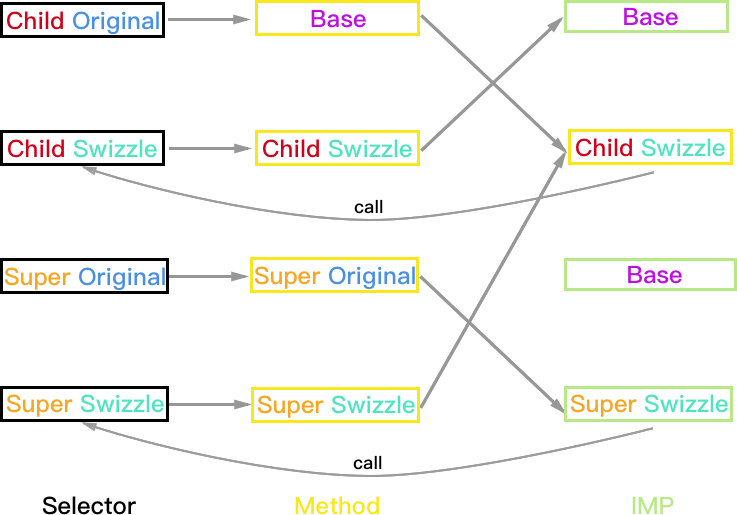
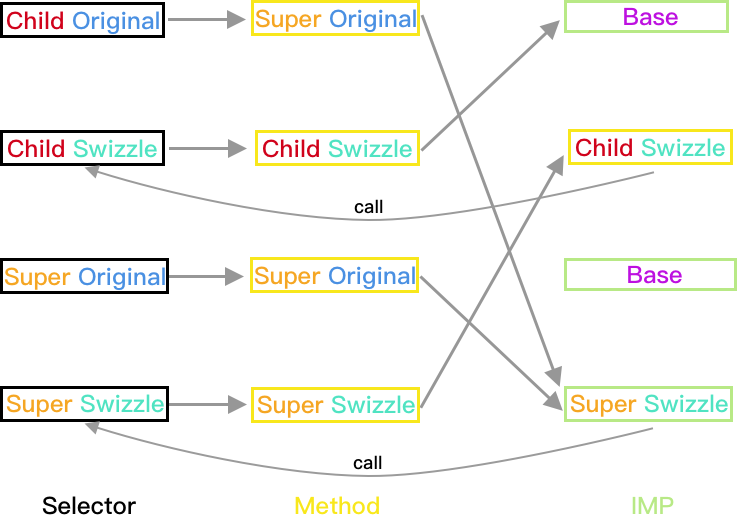
fix method swizzling

diff --git a/source/_posts/2017-04-17-Objective-C-Method-Swizzling.md b/source/_posts/2017-04-17-Objective-C-Method-Swizzling.md
@@ -133,243 +133,227 @@ BOOL class_swizzleMethodAndStore(Class class, SEL original, IMP replacement, IMP
 
 这个顺序本身就不被大众认可却又不得不广泛被使用，因为很多想 Hook 系统 API 只能从 Category 下手。当子类同样的方法也被 Hook 后，奇怪的事情便发生了。
 
-### Super 未实现方法,Child 未实现方法
+### Super 未实现方法, Child 未实现方法
 
-#### Super:Plan A,Child:Plan A
+#### Super:PlanA, Child:PlanA
 
 ![CS_SuperAChildA](http://yulingtianxia.com/resources/MethodSwizzling/CS_SuperAChildA.png)
 
-
 方法执行结果：
 
-1. Child 对象：Child->Base (Super 被忽略)
+1. Child 对象：Child_Swizzle->Base (Super_Swizzle 被忽略)
 2. Super 和 Base 对象均正常
 
-#### Super:Plan B,Child:Plan A
+#### Super:PlanB, Child:PlanA
 
 ![CS_SuperBChildA](http://yulingtianxia.com/resources/MethodSwizzling/CS_SuperBChildA.png)
 
-
 方法执行结果：
 
-1. Child 对象：Child->Base (Super 被忽略)
-2. Super 对象正常
-3. Base 对象产生 `unrecognized selector` 异常，此情况亦等同于：在子类类别中 Hook 了子类未实现而父类实现了的方法。（Super 是 Base 的子类）
+1. Child 对象：Child_Swizzle->Base (Super_Swizzle 被忽略)
+2. Super 对象正常：Super_Swizzle->Base
+3. Base 对象：产生 `unrecognized selector` 异常，此情况亦等同于：在子类类别中 Hook 了子类未实现而父类实现了的方法。（Super 是 Base 的子类）
 
-#### Super:Plan A,Child Plan B
+#### Super:PlanA, Child:PlanB
 
 ![CS_SuperAChildB](http://yulingtianxia.com/resources/MethodSwizzling/CS_SuperAChildB.png)
 
 
 方法执行结果：
 
-1. Child 对象：Child->Base (Super 被忽略)
-2. Super 对象：如果 Super_Swizzle 与 Child_Swizzle 的 `selector` 不同，则会产生 `unrecognized selector` 异常；如果两个 `selector` 相同则会一直调用 Child_Swizzle 进入死循环
-3. Base 对象产生 `unrecognized selector` 异常，此情况亦间接等同于：在子类类别中 Hook 了子类未实现而父类实现了的方法。（Super 是 Base 的子类）
+1. Child 对象：如果 Super_Swizzle 与 Child_Swizzle 的 `selector` 不同，结果是 Super_Swizzle->Child_Swizzle->Base (顺序错误)；如果两个 `selector` 相同，则导致 Super_Swizzle 调用的是 Child_Swizzle 方法，结果是 Super_Swizzle->Base (Child_Swizzle 被忽略)。
+2. Super 对象：如果 Super_Swizzle 与 Child_Swizzle 的 `selector` 不同，则会产生 `unrecognized selector` 异常；如果两个 `selector` 相同则会一直调用 Child_Swizzle 进入死循环。
+3. Base 对象产生 `unrecognized selector` 异常，此情况亦间接等同于：在子类类别中 Hook 了子类未实现而父类实现了的方法。
 
-#### Super:Plan B,Child Plan B
+#### Super:PlanB, Child: PlanB
 
 ![CS_SuperBChildB](http://yulingtianxia.com/resources/MethodSwizzling/CS_SuperBChildB.png)
 
-
 方法执行结果：
 
-1. Child 对象：Super->Child->Base
+1. Child 对象：如果 Super_Swizzle 与 Child_Swizzle 的 `selector` 不同，结果是 Super_Swizzle->Child_Swizzle->Base (顺序错误)；如果两个 `selector` 相同，则导致 Super_Swizzle 调用的是 Child_Swizzle 方法，结果是 Super_Swizzle->Base (Child_Swizzle 被忽略)。
 2. Super 对象：如果 Super_Swizzle 与 Child_Swizzle 的 `selector` 不同，则会产生 `unrecognized selector` 异常；如果两个 `selector` 相同则会一直调用 Child_Swizzle 进入死循环
-3. Base 对象产生 `unrecognized selector` 异常
+3. Base 对象产生 `unrecognized selector` 异常，此情况亦间接等同于：在子类类别中 Hook 了子类未实现而父类实现了的方法。
 
-### Super 实现方法,Child 未实现方法
+### Super 实现方法, Child 未实现方法
 
 由于 Super 类被 Hook 的方法已经被实现，所以只需区分 Child 的 Hook 方案。
 
-#### Child:Plan A
+#### Child:PlanA
 
 ![CS_ChildA](http://yulingtianxia.com/resources/MethodSwizzling/CS_ChildA.png)
 
-
 方法执行结果：
 
-1. Child 对象：Child->Base (Super 被忽略)
+1. Child 对象：Child_Swizzle->Super->Base (Super_Swizzle 被忽略)
 2. Super 和 Base 对象均正常
 
-#### Child:Plan B
+#### Child:PlanB
 
 ![CS_ChildB](http://yulingtianxia.com/resources/MethodSwizzling/CS_ChildB.png)
 
-
 方法执行结果：
 
-1. Child 对象：Super->Child->Base
+1. Child 对象：如果 Super_Swizzle 与 Child_Swizzle 的 `selector` 不同，则结果为 Super_Swizzle->Child_Swizzle->Super->Base (顺序错误)；如果两个 `selector` 相同则结果为 Super_Swizzle->Super->Base (Child_Swizzle 被忽略)
 2. Super 对象：如果 Super_Swizzle 与 Child_Swizzle 的 `selector` 不同，则会产生 `unrecognized selector` 异常；如果两个 `selector` 相同则会一直调用 Child_Swizzle 进入死循环
 3. Base 对象正常
 
-### Super 未实现方法,Child 实现方法
+### Super 未实现方法, Child 实现方法
 
 由于 Child 类被 Hook 的方法已经被实现，所以只需区分 Super 的 Hook 方案。
 
-#### Super:Plan A
+#### Super:PlanA
 
 ![CS_SuperA](http://yulingtianxia.com/resources/MethodSwizzling/CS_SuperA.png)
 
+方法执行结果：
 
-方法执行结果（一切正常）：
-
-1. Child 对象正常：Child->Super->Base
+1. Child 对象：如果 Super_Swizzle 与 Child_Swizzle 的 `selector` 不同，则结果正常 Child_Swizzle->Child->Super_Swizzle->Base；如果两个 `selector` 相同则会一直调用 Child 和 Super_Swizzle 死循环。
 2. Super 和 Base 对象均正常
 
-#### Super:Plan B
+#### Super:PlanB
 
 ![CS_SuperB](http://yulingtianxia.com/resources/MethodSwizzling/CS_SuperB.png)
 
-
 方法执行结果：
 
-1. Child 对象正常：Child->Super->Base
-2. Super 对象正常：Super->Base
+1. Child 对象：如果 Super_Swizzle 与 Child_Swizzle 的 `selector` 不同，则结果正常 Child_Swizzle->Child->Super_Swizzle->Base；如果两个 `selector` 相同则会一直调用 Child 和 Super_Swizzle 死循环。
+2. Super 对象正常：Super_Swizzle->Base
 3. Base 对象产生 `unrecognized selector` 异常，此情况亦等同于：在子类类别中 Hook 了子类未实现而父类实现了的方法。（Super 是 Base 的子类）
 
-### Super 实现方法,Child 实现方法
+### Super 实现方法, Child 实现方法
 
 相当于 Super 和 Child 都使用方案 B 进行 Hook，所以只有一种情况。
 
 ![CS_Perfect](http://yulingtianxia.com/resources/MethodSwizzling/CS_Perfect.png)
 
+方法执行结果：
 
-方法执行结果（一切正常）：
-
-1. Child 对象正常：Child->Super->Base
+1. Child 对象：如果 Super_Swizzle 与 Child_Swizzle 的 `selector` 不同，则结果正常 Child_Swizzle->Child->Super_Swizzle->Super->Base；如果两个 `selector` 相同则会一直调用 Child 和 Super_Swizzle 死循环。
 2. Super 和 Base 对象均正常
 
 ## Hook 顺序：先 Super 后 Child
 
 并不是 Hook 顺序对了就能保平安，姿势也同样重要。
 
-### Super 未实现方法,Child 未实现方法
+### Super 未实现方法, Child 未实现方法
 
-#### Super:Plan A,Child:Plan A
+#### Super:PlanA, Child:PlanA
 
 ![SC_SuperAChildA](http://yulingtianxia.com/resources/MethodSwizzling/SC_SuperAChildA.png)
 
+方法执行结果：
 
-方法执行结果（一切正常）：
-
-1. Child 对象正常：Child->Super->Base
+1. Child 对象：如果 Super_Swizzle 与 Child_Swizzle 的 `selector` 不同，则结果正常 Child_Swizzle->Super_Swizzle->Base；如果两个 `selector` 相同则会一直调用 Super_Swizzle 死循环。
 2. Super 和 Base 对象均正常
 
-#### Super:Plan B,Child:Plan A
+#### Super:PlanB, Child:PlanA
 
 ![SC_SuperBChildA](http://yulingtianxia.com/resources/MethodSwizzling/SC_SuperBChildA.png)
 
-
 方法执行结果：
 
-1. Child 对象正常：Child->Super->Base
-2. Super 对象正常：Super->Base
+1. Child 对象：如果 Super_Swizzle 与 Child_Swizzle 的 `selector` 不同，则结果正常 Child_Swizzle->Super_Swizzle->Base；如果两个 `selector` 相同则会一直调用 Super_Swizzle 死循环。
+2. Super 对象正常：Super_Swizzle->Base
 3. Base 对象产生 `unrecognized selector` 异常，此情况亦等同于：在子类类别中 Hook 了子类未实现而父类实现了的方法。（Super 是 Base 的子类）
 
-#### Super:Plan A,Child Plan B
+#### Super:PlanA, Child PlanB
 
 ![SC_SuperAChildB](http://yulingtianxia.com/resources/MethodSwizzling/SC_SuperAChildB.png)
 
-
 方法执行结果：
 
-1. Child 对象正常：Child->Super->Base
-2. Super 对象：如果 Super_Swizzle 与 Child_Swizzle 的 `selector` 不同，则会产生 `unrecognized selector` 异常；如果两个 `selector` 相同则 Child->Base (Super 被忽略)
+1. Child 对象：如果 Super_Swizzle 与 Child_Swizzle 的 `selector` 不同，则结果正常：Child_Swizzle->Super_Swizzle->Base；如果两个 `selector` 相同则会一直调用 Super_Swizzle 死循环。
+2. Super 对象：如果 Super_Swizzle 与 Child_Swizzle 的 `selector` 不同，则会产生 `unrecognized selector` 异常；如果两个 `selector` 相同则 Child_Swizzle->Base (Super_Swizzle 被忽略)
 3. Base 对象正常
 
-#### Super:Plan B,Child Plan B
+#### Super:PlanB, Child PlanB
 
 ![SC_SuperBChildB](http://yulingtianxia.com/resources/MethodSwizzling/SC_SuperBChildB.png)
 
-
-1. Child 对象正常：Child->Super->Base
-2. Super 对象：如果 Super_Swizzle 与 Child_Swizzle 的 `selector` 不同，则会产生 `unrecognized selector` 异常；如果两个 `selector` 相同则 Child->Base (Super 被忽略)
+1. Child 对象：如果 Super_Swizzle 与 Child_Swizzle 的 `selector` 不同，则结果正常为 Child_Swizzle->Super_Swizzle->Base；如果两个 `selector` 相同则会一直调用 Super_Swizzle 死循环。
+2. Super 对象：如果 Super_Swizzle 与 Child_Swizzle 的 `selector` 不同，则会产生 `unrecognized selector` 异常；如果两个 `selector` 相同则 Child_Swizzle->Base (Super_Swizzle 被忽略)
 3. Base 对象产生 `unrecognized selector` 异常
 
-### Super 实现方法,Child 未实现方法
+### Super 实现方法, Child 未实现方法
 
 由于 Super 类被 Hook 的方法已经被实现，所以只需区分 Child 的 Hook 方案。
 
-#### Child:Plan A
+#### Child:PlanA
 
 ![SC_ChildA](http://yulingtianxia.com/resources/MethodSwizzling/SC_ChildA.png)
 
+方法执行结果：
 
-方法执行结果（一切正常）：
-
-1. Child 对象正常：Child->Super->Base
+1. Child 对象：如果 Super_Swizzle 与 Child_Swizzle 的 `selector` 不同，则结果正常 Child_Swizzle->Super_Swizzle->Super->Base；如果两个 `selector` 相同则会一直调用 Super_Swizzle 死循环。
 2. Super 和 Base 对象均正常
 
-#### Child:Plan B
+#### Child:PlanB
 
 ![SC_ChildB](http://yulingtianxia.com/resources/MethodSwizzling/SC_ChildB.png)
 
-
 方法执行结果：
 
-1. Child 对象正常：Child->Super->Base
-2. Super 对象：如果 Super_Swizzle 与 Child_Swizzle 的 `selector` 不同，则会产生 `unrecognized selector` 异常；如果两个 `selector` 相同则 Child->Base (Super 被忽略)
+1. Child 对象：如果 Super_Swizzle 与 Child_Swizzle 的 `selector` 不同，则结果正常 Child_Swizzle->Super_Swizzle->Super->Base；如果两个 `selector` 相同则会一直调用 Super_Swizzle 死循环。
+2. Super 对象：如果 Super_Swizzle 与 Child_Swizzle 的 `selector` 不同，则会产生 `unrecognized selector` 异常；如果两个 `selector` 相同则结果为 Child_Swizzle->Super->Base (Super_Swizzle 被忽略)
 3. Base 对象正常
 
-### Super 未实现方法,Child 实现方法
+### Super 未实现方法, Child 实现方法
 
 由于 Child 类被 Hook 的方法已经被实现，所以只需区分 Super 的 Hook 方案。
 
-#### Super:Plan A
+#### Super:PlanA
 
 ![SC_SuperA](http://yulingtianxia.com/resources/MethodSwizzling/SC_SuperA.png)
 
+方法执行结果：
 
-方法执行结果（一切正常）：
-
-1. Child 对象正常：Child->Super->Base
+1. Child 对象：如果 Super_Swizzle 与 Child_Swizzle 的 `selector` 不同，则结果正常 Child_Swizzle->Child->Super_Swizzle->Base；如果两个 `selector` 相同则会一直调用 Child 和 Super_Swizzle 死循环。
 2. Super 和 Base 对象均正常
 
-#### Super:Plan B
+#### Super:PlanB
 
 ![SC_SuperB](http://yulingtianxia.com/resources/MethodSwizzling/SC_SuperB.png)
 
-
 方法执行结果：
 
-1. Child 对象正常：Child->Super->Base
-2. Super 对象正常：Super->Base
+1. Child 对象：如果 Super_Swizzle 与 Child_Swizzle 的 `selector` 不同，则结果正常 Child_Swizzle->Child->Super_Swizzle->Base；如果两个 `selector` 相同则会一直调用 Child 和 Super_Swizzle 死循环。
+2. Super 对象正常：Super_Swizzle->Base
 3. Base 对象产生 `unrecognized selector` 异常，此情况亦等同于：在子类类别中 Hook 了子类未实现而父类实现了的方法。（Super 是 Base 的子类）
 
-### Super 实现方法,Child 实现方法
+### Super 实现方法, Child 实现方法
 
 相当于 Super 和 Child 都使用方案 B 进行 Hook，所以只有一种情况。
 
 ![SC_Perfect](http://yulingtianxia.com/resources/MethodSwizzling/SC_Perfect.png)
 
+方法执行结果：
 
-方法执行结果（一切正常）：
-
-1. Child 对象正常：Child->Super->Base
+1. Child 对象：如果 Super_Swizzle 与 Child_Swizzle 的 `selector` 不同，则结果正常 Child_Swizzle->Child->Super_Swizzle->Super->Base；如果两个 `selector` 相同则会一直调用 Child 和 Super_Swizzle 死循环。
 2. Super 和 Base 对象均正常
 
 ## 结论
 
 ### Hook 顺序：先 Child 类后 Super 类
 
-为了保证 Hook 后方法调用顺序是对的，需要同时满足以下两个条件：
+为了保证 Hook 后方法调用顺序是对的，需要同时满足以下三个条件：
 
 1. Child 类实现被 Hook 的方法
-2. Super 类实现被 Hook 的方法或使用 A 方案 Hook
+2. Super 和 Child 中用于 Swizzle 新增的方法命名不同
+3. Super 类实现被 Hook 的方法或使用 A 方案 Hook
 
 ### Hook 顺序：先 Super 类后 Child 类
 
-因为 Hook 的顺序是正确的，所以只需满足以下任意一个条件即可：
+虽然 Hook 的顺序是正确的，也需要同时满足以下两个条件才能保证调用顺序也是对的：
 
-1. 实现被 Hook 的方法
-2. 使用方案 A 进行 Hook
+1. Super 类和 Child 类中用于 Swizzle 新增的方法命名不同
+2. 类实现了被 Hook 的方法或使用方案 A 来 Hook
 
 ### Objective-C Method Swizzling 最佳实践
 
-1. Hook 顺序并不能保证结果一定正确，但先 Super 后 Child 效果更佳
-2. 方案 A 明显优于方案 B
-3. 方案 A 中的『静态方法版本』固然更缜密，但操作复杂。为了提升开发效率，建议参考 CaptainHook 的宏定义实现。
+1. Hook 顺序并不能保证结果一定正确，但先 Super 后 Child 更加安全
+2. 如果 Hook 父类和子类的同一个方法，用于 Swizzle 的方法名需要保持唯一。如果子类用于 Hook 的新增方法名与父类相同，则会导致调用逻辑错误或死循环。
+3. 方案 A 明显优于方案 B。方案 A 中的『静态方法版本』固然更缜密，但操作复杂。为了提升开发效率，建议参考 CaptainHook 的宏定义实现。
 4. [RSSwizzle](https://github.com/rabovik/RSSwizzle) 被很多人推荐，它用很复杂的方式解决了 [What are the Dangers of Method Swizzling in Objective C?](http://stackoverflow.com/questions/5339276/what-are-the-dangers-of-method-swizzling-in-objective-c) 中提到的一系列问题。不过引入它还是有一些成本的，建议在本文列举的那些极端特殊情况下才使用它，毕竟方案 A 已经能 Cover 到大部分情况了。
 5. [jrswizzle](https://github.com/rentzsch/jrswizzle) 尝试解决在不同平台和系统版本上的 Method Swizzling 与类继承关系的冲突。对各平台低版本系统兼容性较强。
 
